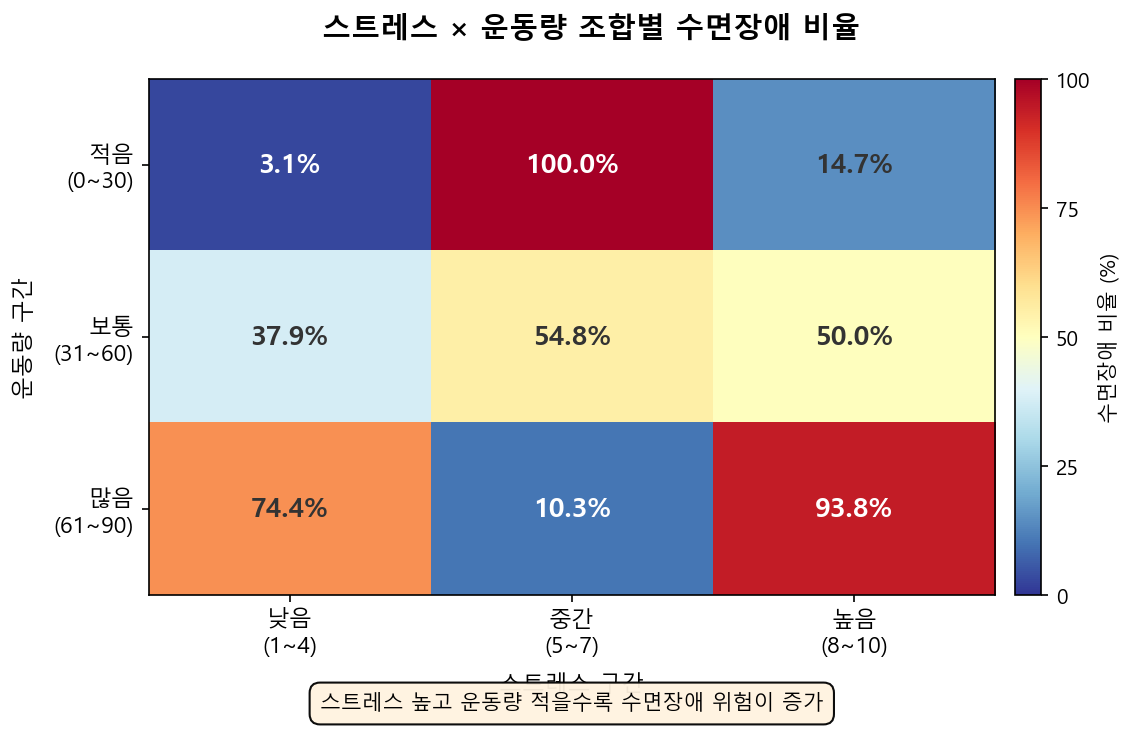
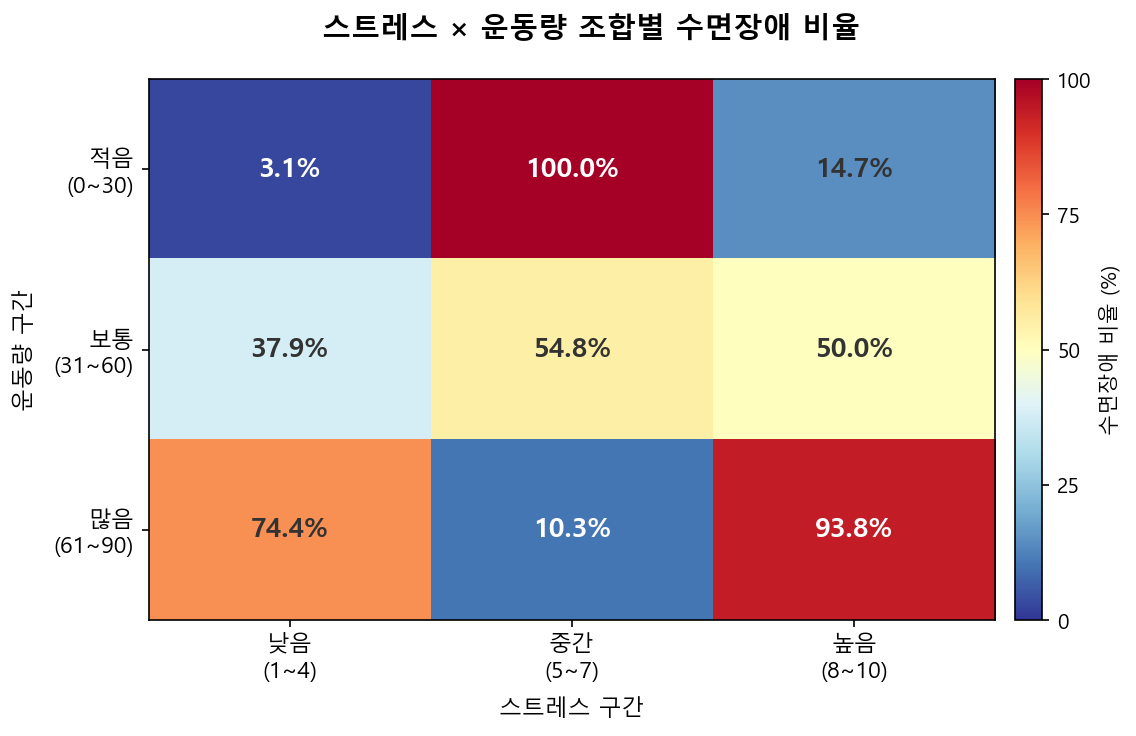
이민하 : 텍스트 박스 삭제

diff --git a/Visualizer.py b/Visualizer.py
@@ -146,7 +146,7 @@ def plot_q2_panels(q2_result: dict):
         ax2,
         "BMI별\n수면장애 비율",
         "BMI 구분",
-        highlight_msg="정상 대비 비만 구간에서 수면장애 급증"
+      
     )
 
     # ── 패널 3: 운동량 구간 ───────────────────────────────────────────
